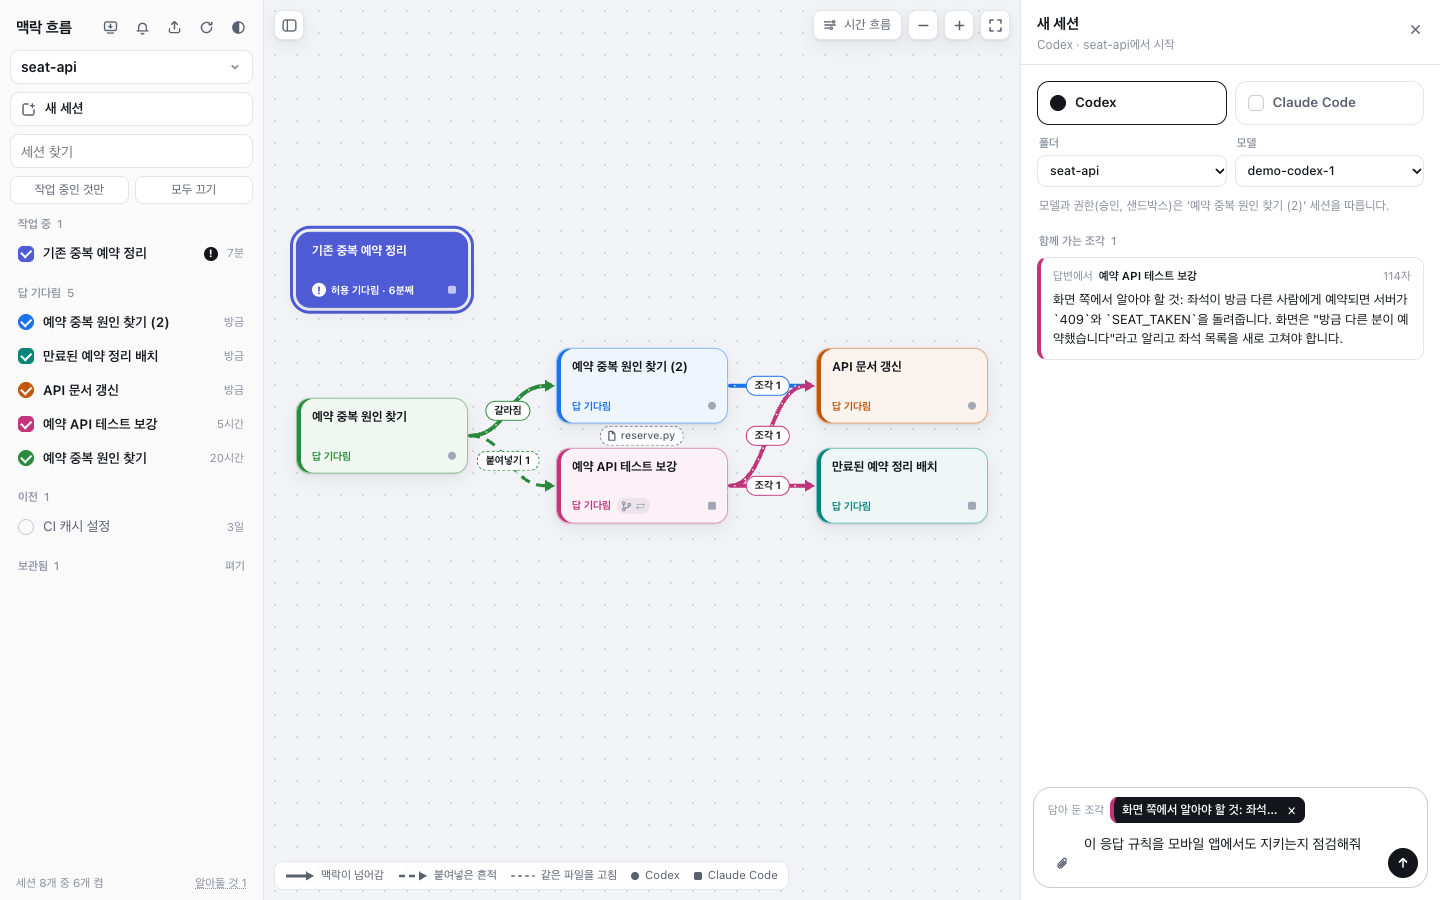
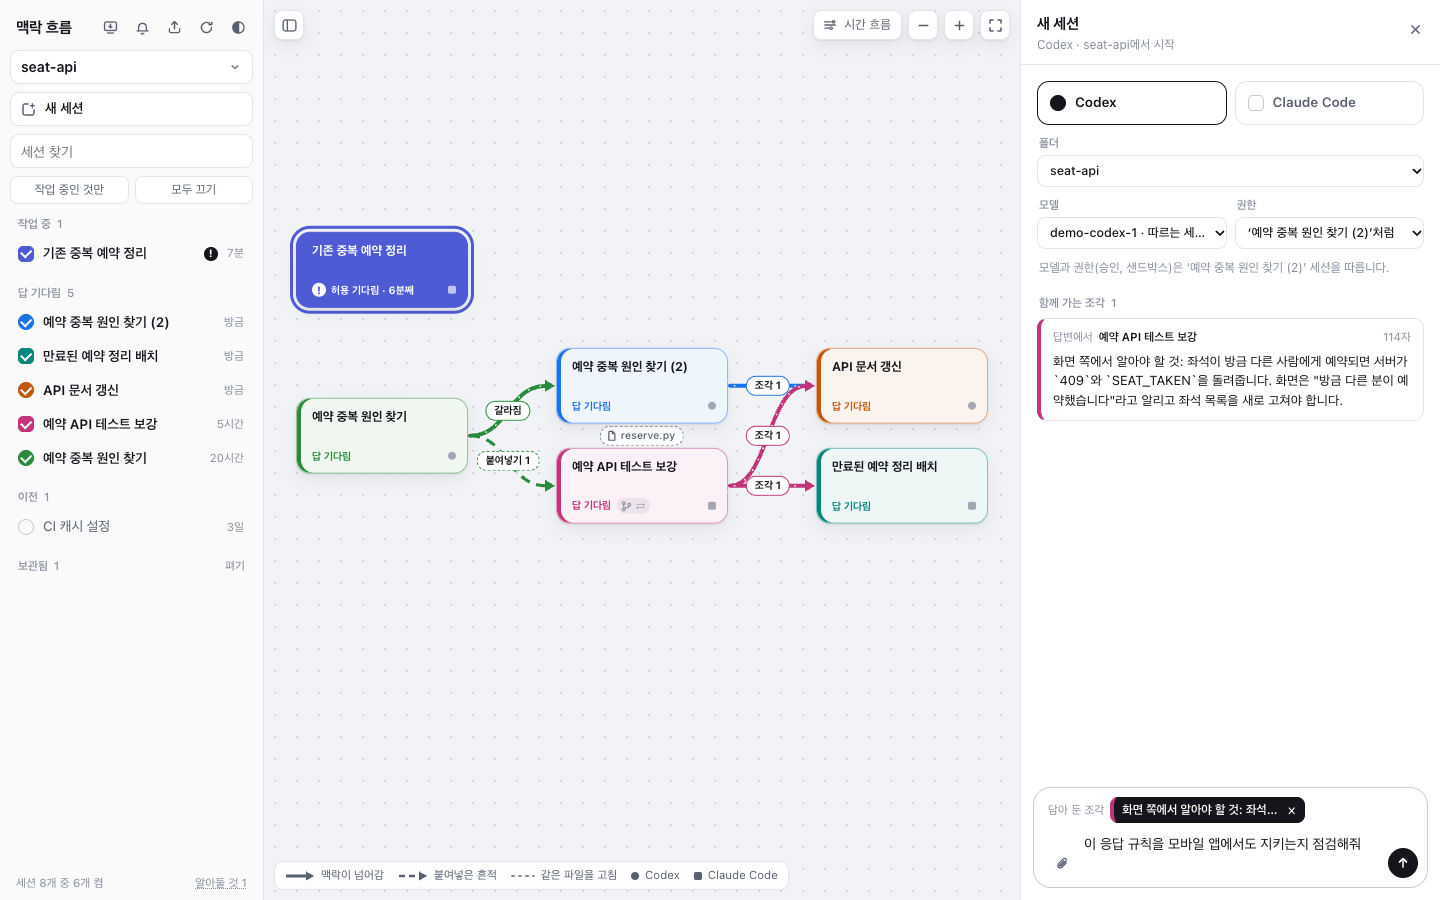
A new session's model is chosen apart from the session it runs like (#55) (#56)
The box called the model in the new-session window chose a session to run like, and with it both that session's
model and what it may do without asking: the model could not be changed while keeping those, nor could one be
chosen that no session on the map had run on.

The window now has the folder on a line of its own and, under it, the model and the permissions side by side. The
permissions box is what the model box was: a session to run like, or the client's own settings. The model box
starts at that session's model (the client's own when it runs like none) and offers what the client lists and what
its sessions were seen to run on, the same list the composer and the first-session window have; a model chosen
there stays when the permissions are changed. The note under the window says the two apart. The first-session
window uses the same model box.

Changed region(s): [[0.7188, 0.1556, 0.9688, 0.4667]]

diff --git a/packages/web/src/chat.ts b/packages/web/src/chat.ts
@@ -1976,10 +1976,11 @@ function tuneNew() {
     where.textContent = CLIENT[fresh.client] + " · " + browsing.shown + "에서 시작";
     where.title = browsing.path;
   }
-  // the folder and the model: what was worked out is shown as chosen, and can be changed
+  // the folder and the session run like (what it may do without asking): what was worked out is shown as chosen, and
+  // can be changed
   const folder = pane().querySelector<HTMLSelectElement>(".fresh-folder");
-  const model = pane().querySelector<HTMLSelectElement>(".fresh-model");
-  if (plan && folder && model) {
+  const like = pane().querySelector<HTMLSelectElement>(".fresh-like");
+  if (plan && folder && like) {
     const option = (value: string, label: string, tip: string) => { const made = h("option", "", label); made.value = value; made.title = tip; return made; };
     // the project's folders, and last a folder from the disk: one that is in no project is then a project of its own
     const own = [...new Set([...(fresh.away ? [] : [plan.cwd]), ...plan.folders])].sort().map((path) => option(path, folderName(path), path));
@@ -1987,32 +1988,45 @@ function tuneNew() {
     folder.value = fresh.away ? OTHER : plan.cwd;
     folder.disabled = starting;
     const likes = plan.like && !plan.likes.some((one) => one.id === plan.like!.id) ? [plan.like, ...plan.likes] : plan.likes;
-    model.replaceChildren(...likes.map((one) => option(one.id, one.model ?? "(모델 표시 없음)", "‘" + one.title + "’처럼: 그 세션의 모델과 권한")), option("none", CLIENT[fresh.client] + " 기본 설정", "따르는 세션 없이, 그 클라이언트의 기본 모델과 권한으로"));
-    model.value = plan.like?.id ?? "none";
-    model.disabled = starting;
+    like.replaceChildren(...likes.map((one) => option(one.id, "‘" + flat(one.title, 22) + "’처럼", "‘" + one.title + "’의 승인과 샌드박스로. 모델을 따로 고르지 않으면 그 세션의 모델" + (one.model ? "(" + one.model + ")" : "") + "도 따릅니다")), option("none", CLIENT[fresh.client] + " 기본 설정", "따르는 세션 없이, 그 클라이언트에 설정된 승인과 샌드박스로"));
+    like.value = plan.like?.id ?? "none";
+    like.disabled = starting;
   }
   const browse = pane().querySelector<HTMLElement>(".browse");
   if (browse && !first) browse.hidden = !fresh.away;
-  // a first session's model: its client's own, or one of those the client offers
-  const firstModel = pane().querySelector<HTMLSelectElement>(".first-model");
-  if (first && firstModel) {
+  // The model, chosen apart from the session run like: by default that session's (or, running like none, the
+  // client's own); else one the client offers, or one its sessions on the map were seen to run on.
+  const pick = pane().querySelector<HTMLSelectElement>(".fresh-model");
+  const own = plan?.like?.model ?? null;
+  if (pick && (first || plan)) {
     askModels(fresh.client, () => { if (state.fresh === fresh) tune(); });
-    const models = offered.get(fresh.client) ?? [];
-    if (fresh.model && !models.some((one) => one.id === fresh.model)) fresh.model = undefined;
-    const drawn = JSON.stringify([fresh.client, ...models.map((one) => one.id)]);
-    if (firstModel.dataset.drawn !== drawn) {
+    const names = new Map<string, string>();
+    for (const one of offered.get(fresh.client) ?? []) names.set(one.id, one.name === one.id ? one.id : one.name + " · " + one.id);
+    for (const other of [...state.sessions.values()].sort((a, b) => b.updatedAt - a.updatedAt)) if (other.client === fresh.client && other.model && !names.has(other.model)) names.set(other.model, other.model);
+    if (own) names.delete(own);
+    if (fresh.model && fresh.model !== own && !names.has(fresh.model)) fresh.model = undefined;
+    // (the model's own name first: the session it is taken from is named in the box beside, and in the note below)
+    const ownLabel = plan?.like ? (own ? own + " · 따르는 세션의 모델" : "따르는 세션의 모델") : CLIENT[fresh.client] + " 기본 모델";
+    const drawn = JSON.stringify([ownLabel, ...names]);
+    if (pick.dataset.drawn !== drawn) {
       // (drawn again only when the choices changed, so that a list that is open is not shut under the hand)
-      firstModel.dataset.drawn = drawn;
-      const own = h("option", "", CLIENT[fresh.client] + " 기본 모델");
-      own.value = "";
-      own.title = "고르지 않으면 그 클라이언트에 설정된 기본 모델로 시작합니다";
-      firstModel.replaceChildren(own, ...models.map((one) => { const made = h("option", "", one.name === one.id ? one.id : one.name + " · " + one.id); made.value = one.id; return made; }));
+      pick.dataset.drawn = drawn;
+      const head = h("option", "", ownLabel);
+      head.value = "";
+      head.title = plan?.like ? "따르는 세션의 모델로 시작합니다" : "그 클라이언트에 설정된 기본 모델로 시작합니다";
+      pick.replaceChildren(head, ...[...names].map(([id, name]) => { const made = h("option", "", name); made.value = id; return made; }));
     }
-    firstModel.value = fresh.model ?? "";
-    firstModel.disabled = held;
+    pick.value = fresh.model && fresh.model !== own ? fresh.model : "";
+    pick.disabled = held;
   }
+  const chosen = fresh.model && fresh.model !== own ? fresh.model : null;
   const note = pane().querySelector<HTMLElement>(".fresh-note");
-  if (note) note.textContent = !state.clients[fresh.client] ? "이 컴퓨터에서 " + CLIENT[fresh.client] + "를 찾지 못해 시작할 수 없습니다." : plan?.like ? "모델과 권한(승인, 샌드박스)은 ‘" + flat(plan.like.title, 28) + "’ 세션을 따릅니다." : first && fresh.model ? fresh.model + " 모델로, 권한(승인, 샌드박스)은 " + CLIENT[fresh.client] + "의 기본 설정으로 시작합니다." : CLIENT[fresh.client] + "의 기본 모델과 권한으로 시작합니다.";
+  if (note) {
+    note.textContent = !state.clients[fresh.client] ? "이 컴퓨터에서 " + CLIENT[fresh.client] + "를 찾지 못해 시작할 수 없습니다."
+      : plan?.like ? (chosen ? "모델은 " + chosen + ", 권한(승인, 샌드박스)은 ‘" + flat(plan.like.title, 28) + "’ 세션을 따릅니다." : "모델과 권한(승인, 샌드박스)은 ‘" + flat(plan.like.title, 28) + "’ 세션을 따릅니다.")
+      : chosen ? chosen + " 모델로, 권한(승인, 샌드박스)은 " + CLIENT[fresh.client] + "의 기본 설정으로 시작합니다."
+      : CLIENT[fresh.client] + "의 기본 모델과 권한으로 시작합니다.";
+  }
   pane().querySelectorAll<HTMLElement>(".client").forEach((one) => one.classList.toggle("on", one.dataset.client === fresh.client));
   // what the new session will be given besides the request: the pieces attached, each in the colour of where it came from
   const list = pane().querySelector<HTMLElement>(".fresh-pieces");
@@ -2069,7 +2083,7 @@ async function startNew() {
     const files = await wireFiles(going);
     const asked = first
       ? { client: fresh.client, text, cwd: fresh.cwd, ...(fresh.model ? { model: fresh.model } : {}), ...(files.length ? { files } : {}) }
-      : { project: state.snap!.project.id, client: fresh.client, text, pieces, cwd: plan?.cwd, like: plan ? plan.like?.id ?? "none" : undefined, ...(files.length ? { files } : {}) };
+      : { project: state.snap!.project.id, client: fresh.client, text, pieces, cwd: plan?.cwd, like: plan ? plan.like?.id ?? "none" : undefined, ...(fresh.model ? { model: fresh.model } : {}), ...(files.length ? { files } : {}) };
     const made = await post<{ turn: string; session: string; cwd: string; project?: Project }>("/api/new", asked);
     box.value = "";
     picked = [];
@@ -2172,6 +2186,7 @@ export function drawNew() {
     field.append(h("span", "", label), select);
     return field;
   };
+  const model = choose("fresh-model", "모델", "새 세션의 모델. 고르지 않으면 따르는 세션의 모델이고, 따르는 세션이 없으면 그 클라이언트의 기본 모델입니다", (value) => { fresh.model = value || undefined; });
   ways.append(
     choose("fresh-folder", "폴더", "새 세션이 일할 폴더. 고르지 않으면 첫 조각이 나온 세션의 폴더입니다", (value) => {
       fresh.like = undefined;
@@ -2185,12 +2200,13 @@ export function drawNew() {
       fresh.away = true;
       void (browsing ? goFolder(browsing.path) : goFolder(besideProject(), true));
     }),
-    choose("fresh-model", "모델", "새 세션의 모델. 고른 모델을 쓰던 세션의 권한도 함께 따릅니다", (value) => { fresh.like = value; }),
   );
-  const firstWays = h("div", "fresh-ways");
-  firstWays.append(choose("first-model", "모델", "첫 세션의 모델. 고르지 않으면 그 클라이언트의 기본 모델입니다. 권한(승인, 샌드박스)은 그 클라이언트의 기본 설정입니다", (value) => { fresh.model = value || undefined; }));
-  if (first) body.append(pick, firstWays, h("div", "browse"), h("p", "fresh-note", ""));
-  else body.append(pick, ways, h("div", "browse"), h("p", "fresh-note", ""), h("div", "fresh-pieces"));
+  // the model and what it may do without asking, chosen apart; a first session has no session to run like
+  const how = h("div", "fresh-ways");
+  how.append(model);
+  if (!first) how.append(choose("fresh-like", "권한", "새 세션의 승인과 샌드박스: 어느 세션처럼 할지, 또는 그 클라이언트의 기본 설정. 모델을 따로 고르지 않으면 그 세션의 모델도 따릅니다", (value) => { fresh.like = value; }));
+  if (first) body.append(pick, how, h("div", "browse"), h("p", "fresh-note", ""));
+  else body.append(pick, ways, h("div", "browse"), how, h("p", "fresh-note", ""), h("div", "fresh-pieces"));
   const form = h("form", "composer");
   const basket = h("div", "basket");
   const row = h("div", "composer-row");

diff --git a/demo/demo.test.ts b/demo/demo.test.ts
@@ -403,11 +403,14 @@ test("from a map, a session is begun in a folder outside its projects, chosen fr
     assert.deepEqual([top.of, top.git, Array.isArray(top.near)], [undefined, true, true]);
     // the top folder, and a folder that is not there, are refused
     for (const cwd of ["/", join(made, "nowhere")]) assert.equal((await post("/api/new", { project: PROJECTS.api.id, client: "claude", text: "x", cwd })).status, 400);
-    // a folder of another project of the sidebar: the session is that project's, and nothing is kept
-    const there = await post("/api/new", { project: PROJECTS.api.id, client: "codex", text: "다른 프로젝트 폴더에서", cwd: PROJECTS.web.root });
+    // a folder of another project of the sidebar: the session is that project's, and nothing is kept. It runs like the
+    // nearest Codex session, but with a model chosen apart from that session's
+    const there = await post("/api/new", { project: PROJECTS.api.id, client: "codex", text: "다른 프로젝트 폴더에서", cwd: PROJECTS.web.root, model: "demo-codex-mini" });
     assert.equal(there.status, 200, JSON.stringify(there.body));
-    assert.equal(there.body.project?.id, PROJECTS.web.id);
+    assert.deepEqual([there.body.project?.id, there.body.model], [PROJECTS.web.id, "demo-codex-mini"]);
     await done(there.body.session);
+    const web = await get("/api/snapshot?project=" + PROJECTS.web.id);
+    assert.equal(web.sessions.find((one: { id: string }) => one.id === there.body.session)?.model, "demo-codex-mini");
     // the new repository, with a piece of this map along: the session is of a project of its own, its work tree
     const snap = await get("/api/snapshot?project=" + PROJECTS.api.id);
     const answer = (snap.items as { id: string; sessionId: string; kind: string; size: number }[]).find((item) => item.sessionId === SESSIONS.tests.id && item.kind === "answer")!;

diff --git a/docs/ARCHITECTURE.md b/docs/ARCHITECTURE.md
@@ -224,7 +224,7 @@ Claude Code는 대화를 되감아도(`/rewind`, Esc 두 번, 헤드리스의 `-
 | 경로 | 하는 일 |
 |---|---|
 | `/api/send` | 세션에 말을 보냅니다. 붙인 조각과 그 세션에 걸려 있던 조각이 함께 갑니다. `files`(이름, 종류, base64)와 `model`도 받습니다. 작업 중인 세션이면 409 |
-| `/api/new` | 새 세션을 시작합니다. `project` 없이 `cwd`만 주면 첫 세션이고, 그 폴더에서 클라이언트의 기본 권한으로 시작합니다. 모델은 `model`로 주고, 주지 않으면 클라이언트의 기본 모델입니다. 첫 세션에는 조각을 붙일 수 없습니다. `project`와 함께 준 `cwd`가 지도의 프로젝트 밖이면 그 폴더가 든 프로젝트의 세션이 되고, 어느 프로젝트에도 없으면 그 폴더를 새 프로젝트로 적어 둡니다. 맨 위 폴더와 없는 폴더는 400입니다. 돌려주는 `project`는 세션이 든 프로젝트이고, 화면은 그것이 지도에 없으면 함께 올립니다. 돌려주는 `model`은 준 모델, 없으면 따른 세션의 모델입니다 |
+| `/api/new` | 새 세션을 시작합니다. `project` 없이 `cwd`만 주면 첫 세션이고, 그 폴더에서 클라이언트의 기본 권한으로 시작합니다. 모델은 `model`로 주고, 주지 않으면 클라이언트의 기본 모델입니다. 첫 세션에는 조각을 붙일 수 없습니다. `project`와 함께 준 `cwd`가 지도의 프로젝트 밖이면 그 폴더가 든 프로젝트의 세션이 되고, 어느 프로젝트에도 없으면 그 폴더를 새 프로젝트로 적어 둡니다. 맨 위 폴더와 없는 폴더는 400입니다. 돌려주는 `project`는 세션이 든 프로젝트이고, 화면은 그것이 지도에 없으면 함께 올립니다. `model`을 주면 따르는 세션(`like`)의 모델 대신 그 모델로 시작하고, 권한은 그대로 그 세션을 따릅니다. 돌려주는 `model`은 준 모델, 없으면 따른 세션의 모델입니다 |
 | `/api/projects/forget` | 이 화면이 더한 프로젝트(`kept`)를 목록에서 뺍니다. `folders.json`의 그 줄만 지우고 기록은 건드리지 않습니다. 그런 프로젝트가 아니면 400이고, 바뀐 목록과 지운 줄(`gone`, 폴더와 적은 때)을 돌려줍니다 |
 | `/api/projects/keep` | 지운 줄을 받은 그대로(`folders`: 폴더와 적은 때) 다시 적습니다. 목록의 자리는 적은 때로 정해지므로 원래 자리로 돌아갑니다. 빈 목록, 맨 위 폴더, 없는 폴더는 400입니다 |
 | `/api/fork` | 세션의 요청 하나(`item`)를 고친 글(`text`)로 다시 보냅니다. 세션을 그 요청 앞에서 갈라 내고, 갈라진 세션에 보냅니다. 조각, `files`, `model`은 `/api/send`와 같습니다. 돌려주는 `from`은 갈라 낸 세션이고, 물려받을 것이 없었으면 null입니다 |

diff --git a/docs/CHANGES.md b/docs/CHANGES.md
@@ -29,6 +29,7 @@ npm run service -- restart   # 서비스로 띄워 두었을 때. 아니면 npm 
 | 프로젝트가 있을 때도 새 세션 창의 '다른 폴더…'로 프로젝트 밖의 폴더(방금 만든 저장소 같은)에서 바로 시작합니다. 어느 프로젝트에도 없는 폴더는 새 프로젝트가 되어 지도에 함께 올라가고, 그 뒤로 프로젝트 목록에 남습니다 | 새 세션 창의 '폴더' | [USAGE.md](USAGE.md) 1절 | [#46](https://github.com/jeff8287/context-flow/pull/46) |
 | 이렇게 더한 프로젝트를 목록에서 뺍니다. 한 번 더 묻고, 지도에서도 내립니다. 세션의 기록은 그대로입니다 | 프로젝트 목록의 × | [USAGE.md](USAGE.md) 1절 | [#48](https://github.com/jeff8287/context-flow/pull/48) |
 | 목록에서 뺀 프로젝트를 잠시 뜨는 카드의 '되돌리기'로 원래 자리와 지도에 되돌립니다 | 빼고 난 뒤의 카드 | [USAGE.md](USAGE.md) 1절 | [#54](https://github.com/jeff8287/context-flow/pull/54) |
+| 새 세션 창에서 모델을 권한과 떼어 고릅니다. 권한은 어느 세션처럼 할지 고르고, 모델은 그 클라이언트가 내주는 모델 가운데서 따로 고릅니다 | 새 세션 창의 '모델'과 '권한' | [USAGE.md](USAGE.md) 3절 | [#56](https://github.com/jeff8287/context-flow/pull/56) |
 | 첫 세션 창에서 모델을 고릅니다. 그 클라이언트가 내주는 모델이 목록에 나오고, 고르지 않으면 기본 모델입니다 | 첫 세션 창의 '모델' | [USAGE.md](USAGE.md) 1절 | [#52](https://github.com/jeff8287/context-flow/pull/52) |
 | 요청을 고치거나 대화를 되감기 전에 오간 말을, 대화가 갈린 자리에서 펼쳐 봅니다. 거기서도 조각을 담아 다른 세션이나 그 세션 자신에게 보냅니다 | 대화의 점선 줄 '고치기 전의 대화', '되감기 전의 대화' | [DEMO.md](DEMO.md) 10절 | [#26](https://github.com/jeff8287/context-flow/pull/26), [#32](https://github.com/jeff8287/context-flow/pull/32) |
 

diff --git a/docs/USAGE.md b/docs/USAGE.md
@@ -161,7 +161,7 @@ npm run scan -- <프로젝트 이름>
 
 **다음 말에 싣기.** 조각을 붙이면 보내기 옆에 '다음 말에 싣기'가 나옵니다. 누르면 조각이 그 세션 앞으로 걸리고, 그 세션에 다음 말을 칠 때 함께 갑니다. Codex 앱에서 치든 터미널에서 치든 이 화면에서 치든 같습니다. 4절의 플러그인이 있어야 합니다.
 
-**새 세션.** 칩을 지도의 빈 곳에 놓거나 '새 세션'을 누릅니다. 클라이언트, 폴더, 모델을 고르고 첫 말을 적습니다. 폴더와 모델은 그 프로젝트의 세션들이 쓰던 것 가운데서 고르고, 모델을 고르면 그 모델을 쓰던 가까운 세션의 권한도 함께 따릅니다. 프로젝트 밖의 폴더는 '다른 폴더…'로 고릅니다(1절).
+**새 세션.** 칩을 지도의 빈 곳에 놓거나 '새 세션'을 누릅니다. 클라이언트, 폴더, 모델, 권한을 고르고 첫 말을 적습니다. 폴더는 그 프로젝트의 세션들이 쓰던 것 가운데서 고릅니다. 권한(승인, 샌드박스)은 같은 클라이언트의 어느 세션처럼 할지, 또는 그 클라이언트의 기본 설정으로 할지 고르고, 처음에는 가까운 세션을 따릅니다. 모델은 따로 고르지 않으면 권한에서 고른 세션의 모델(기본 설정이면 그 클라이언트의 기본 모델)이고, 그 클라이언트가 내주는 모델 가운데서 따로 고를 수 있습니다. 프로젝트 밖의 폴더는 '다른 폴더…'로 고릅니다(1절).
 
 **역추적.** 고른 글이나 조각 카드의 '역추적'을 누르면 그 글이 지나온 길이 열립니다.
 
